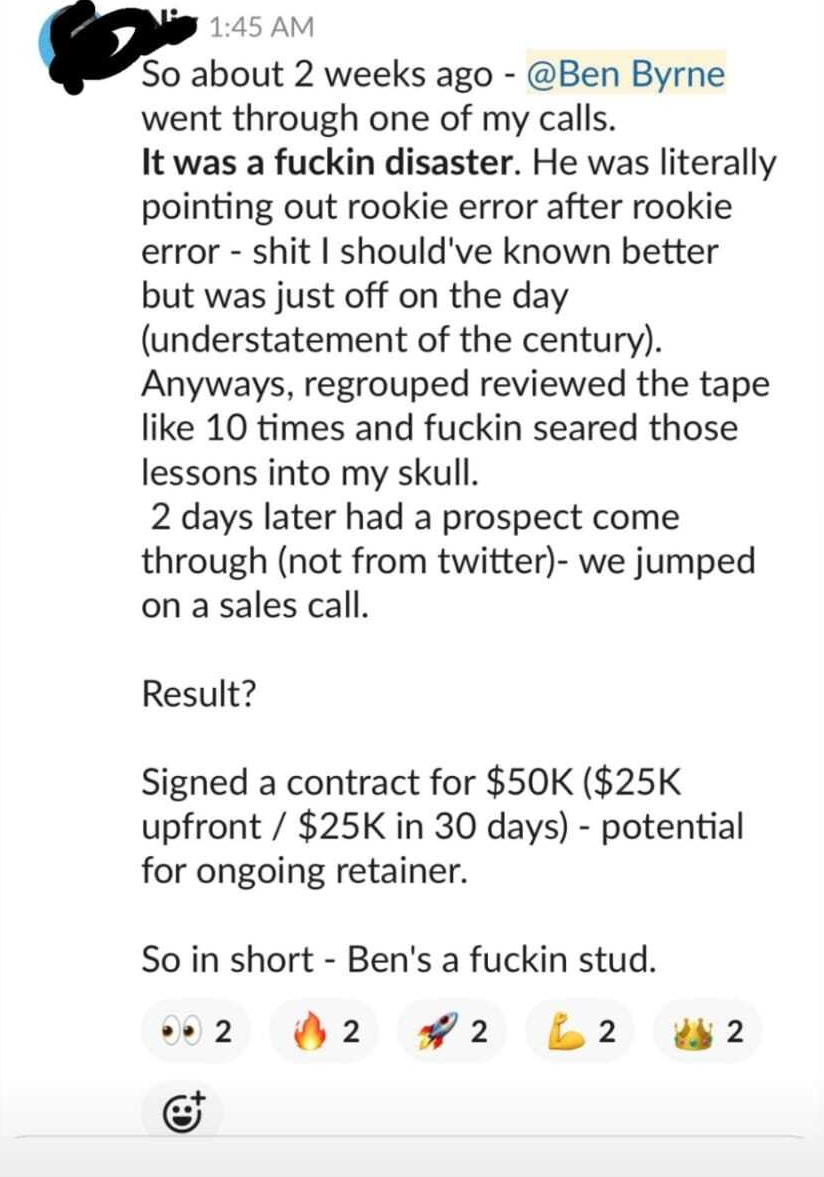
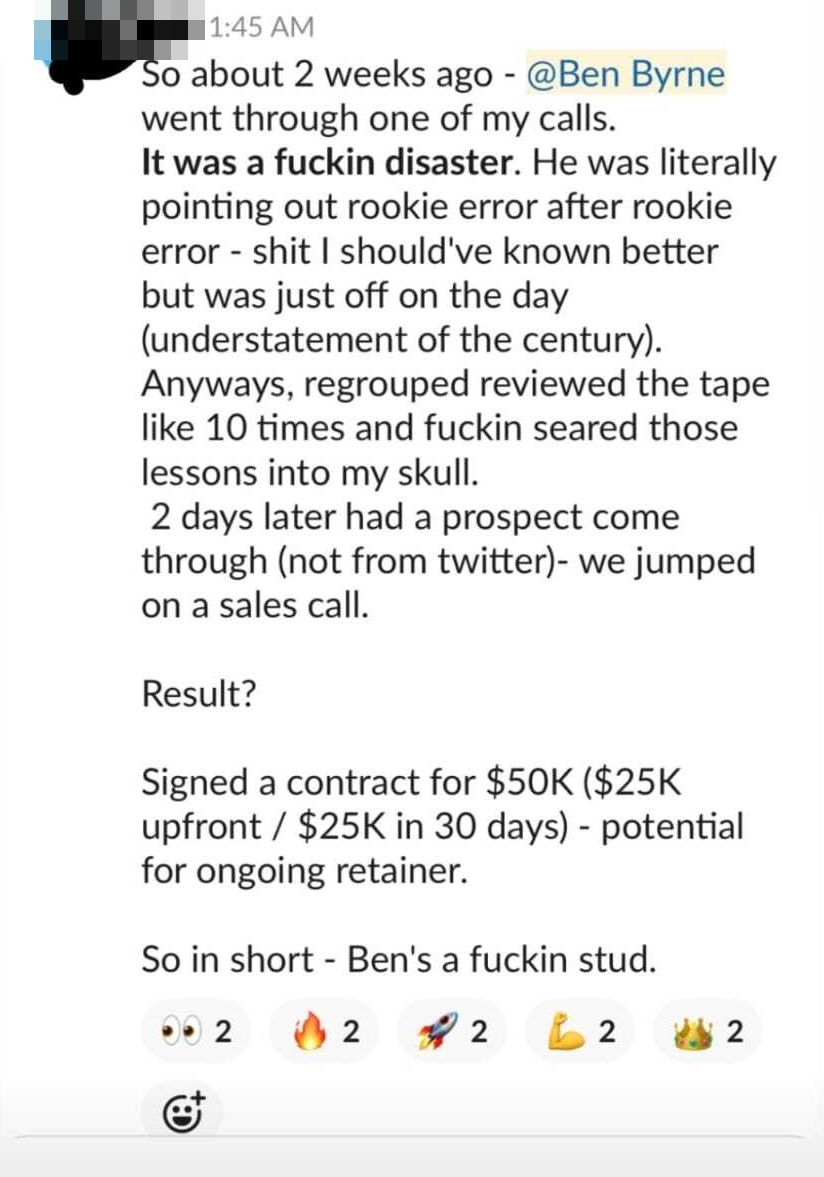
Receipts strip: all seven remaining proof screenshots, swipeable
'More from the wins channel' — horizontal scroll-snap strip below the
featured trio (Will, Max, Emma, anonymous member, Nick, Brandon ×2),
labels stating only what each screenshot shows. Niv's sender name
pixelated per Tyler; profanity kept per Tyler.

Claude-Session: https://claude.ai/code/session_0146dsLJ8eMAE4jyEwxm7bb2

Changed region(s): [[0.0303, 0.0, 0.2731, 0.0612]]

diff --git a/apps/web/src/app/start/WinsSection.tsx b/apps/web/src/app/start/WinsSection.tsx
@@ -80,6 +80,18 @@ const FEATURED = [
   },
 ];
 
+// The receipts strip: every remaining proof screenshot, horizontally
+// swipeable. Labels state only what the screenshot itself shows.
+const MORE: { shot: string; alt: string; name: string; result: string }[] = [
+  { shot: "/wins/will.png", alt: "Will's message: sold his package, $8k total", name: "Will N.", result: "$8k package sold" },
+  { shot: "/wins/max.png", alt: "Max's post: $5K website redesign plus $2,500/mo ads management", name: "Max S.", result: "$5k + $2,500/mo client" },
+  { shot: "/wins/emma.png", alt: "Emma's message: new setter set 3 calls in 24 hours", name: "Emma S.", result: "3 calls set in 24 hours" },
+  { shot: "/wins/caip9k.png", alt: "Member post: $4k project closed, $9,000 in deals since joining", name: "Member win", result: "$9,000 in his first weeks" },
+  { shot: "/wins/nick.png", alt: "Nick's win: gut health coaching from 5 to 20k per month", name: "Nick", result: "$5k to $20k months" },
+  { shot: "/wins/brandon-deal.png", alt: "Brandon's post: $10k/mo deal on a 6-month engagement", name: "Brandon D.", result: "$10k/mo deal closed" },
+  { shot: "/wins/brandon-testimonial.png", alt: "Brandon's testimonial: same service, price from $3k/mo to $10k/mo", name: "Brandon D.", result: "Same service, 3\u00d7 the price" },
+];
+
 const STATS = [
   { b: "300+", s: "Reps coached" },
   { b: "$50k", s: "Biggest single contract" },
@@ -129,6 +141,19 @@ const WINS_CSS = `
 .w-fl li{font-size:13.5px;line-height:1.5;color:#52525b;padding-left:14px;position:relative;text-wrap:pretty}
 .w-fl li::before{content:"";position:absolute;left:0;top:8px;width:4px;height:4px;border-radius:50%;background:#d4d4d8}
 .w-fl mark{background:#d1fae5;color:#065f46;font-weight:650;padding:0 3px;border-radius:3px;font-variant-numeric:tabular-nums}
+.w-morek{text-align:center;font-size:11px;color:#a1a1aa;letter-spacing:.14em;text-transform:uppercase;
+  font-weight:600;margin:26px 0 0}
+.w-more{display:flex;gap:12px;overflow-x:auto;scroll-snap-type:x proximity;padding:12px 24px 16px;margin:0 -24px;
+  scrollbar-width:none;-webkit-overflow-scrolling:touch}
+.w-more::-webkit-scrollbar{display:none}
+.w-m{flex:none;width:252px;scroll-snap-align:start;border:1px solid #e4e4e7;border-radius:14px;overflow:hidden;
+  background:#fff;box-shadow:0 2px 10px rgba(9,9,11,.04)}
+.w-mshot{position:relative;background:#f4f4f5;height:300px;overflow:hidden;border-bottom:1px solid #e4e4e7}
+.w-mshot img{display:block;width:100%;height:auto}
+.w-mshot::after{content:"";position:absolute;left:0;right:0;bottom:0;height:44px;background:linear-gradient(transparent,#fff)}
+.w-ml{display:flex;justify-content:space-between;align-items:baseline;gap:8px;padding:10px 13px}
+.w-ml b{font-size:12.5px;font-weight:650;letter-spacing:-.015em;white-space:nowrap}
+.w-ml span{font-size:11.5px;color:#047857;font-weight:600;text-align:right;font-variant-numeric:tabular-nums}
 .w-stats{display:grid;grid-template-columns:repeat(3,1fr);gap:8px;max-width:640px;margin:26px auto 0}
 .w-s{text-align:center;padding:15px 8px;border:1px solid #e4e4e7;border-radius:14px;background:#fff}
 .w-s b{display:block;font-size:24px;font-weight:700;letter-spacing:-.035em;line-height:1;font-variant-numeric:tabular-nums}
@@ -207,6 +232,24 @@ export function WinsSection() {
           ))}
         </div>
       )}
+
+      <p className="w-morek">More from the wins channel</p>
+      <div className="w-fade">
+        <div className="w-more">
+          {MORE.map((m) => (
+            <div className="w-m" key={m.shot}>
+              <div className="w-mshot">
+                {/* eslint-disable-next-line @next/next/no-img-element */}
+                <img src={m.shot} alt={m.alt} loading="lazy" />
+              </div>
+              <div className="w-ml">
+                <b>{m.name}</b>
+                <span>{m.result}</span>
+              </div>
+            </div>
+          ))}
+        </div>
+      </div>
 
       <div className="w-stats">
         {STATS.map((s) => (
